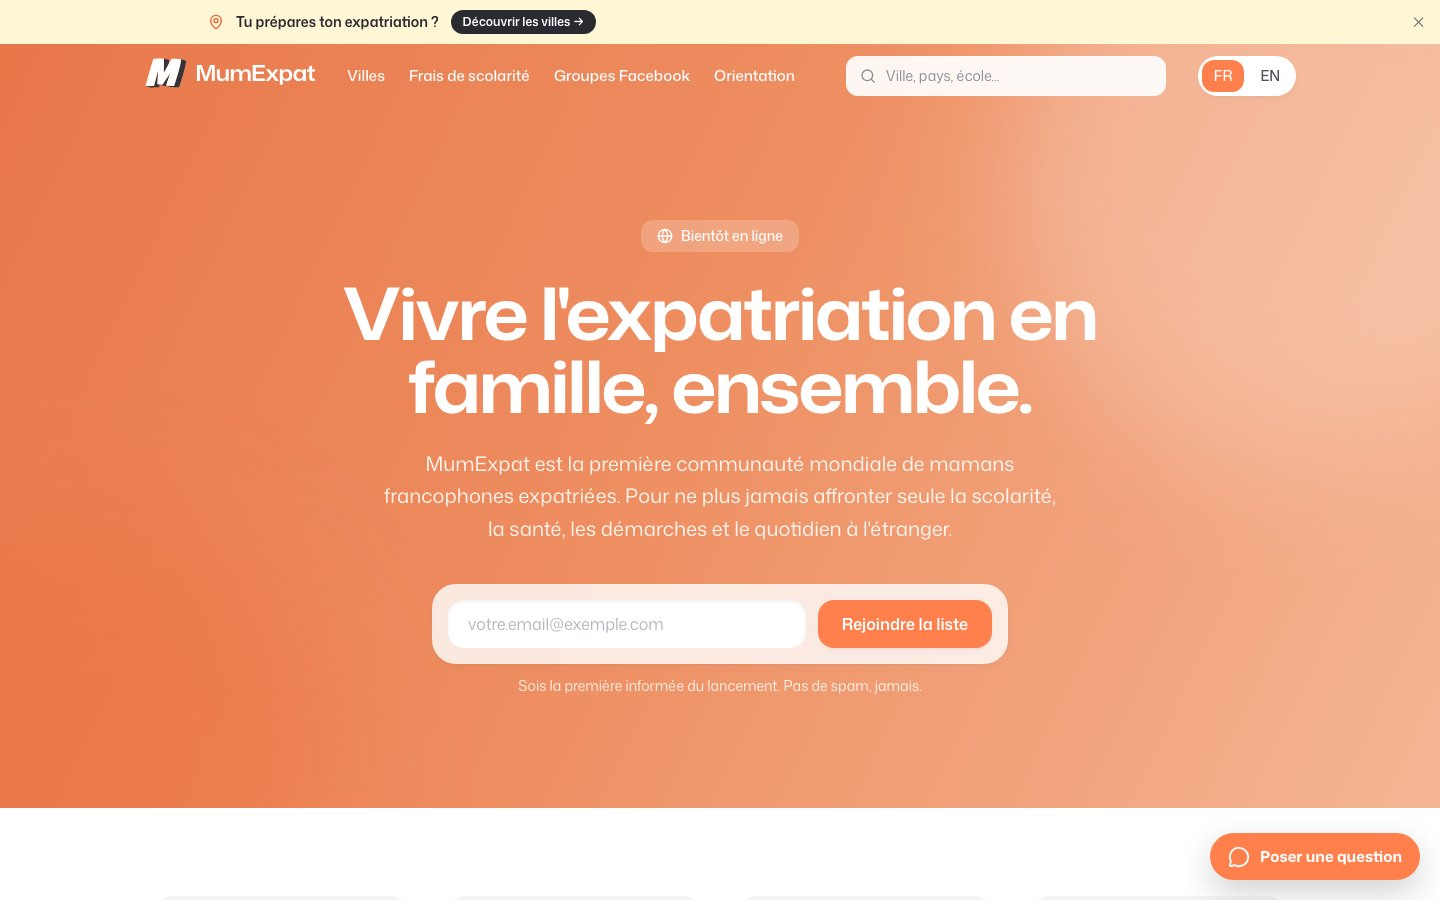
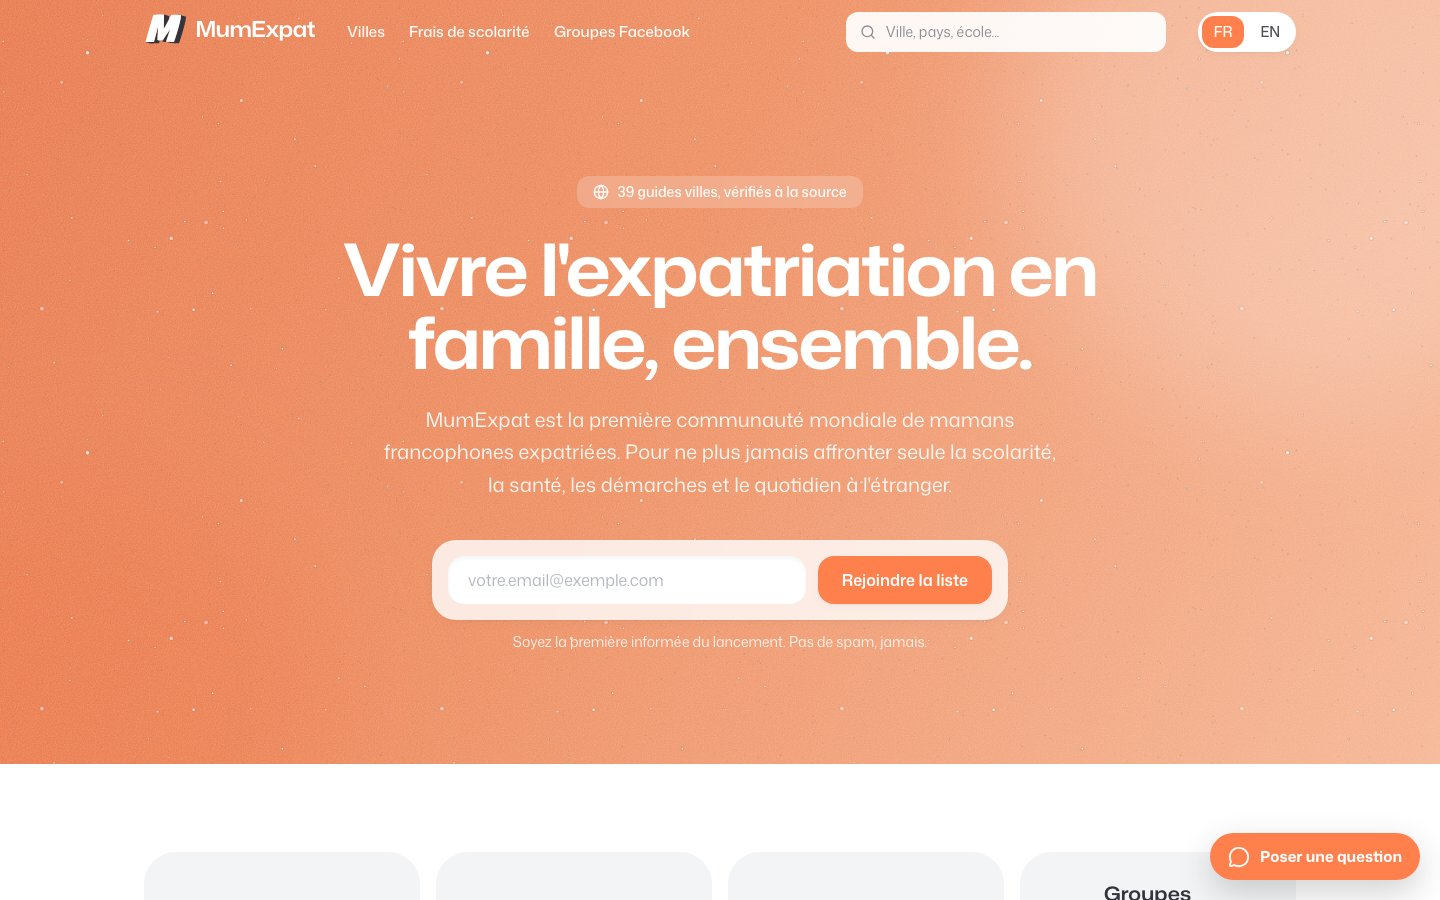
fix: story plafonnée à l'écran visible sur iPhone, capture MumExpat à jour
Claude-Session: https://claude.ai/code/session_018sWezq4TvC2hZctAijJpzf

diff --git a/components/projet/ProjetsStories.tsx b/components/projet/ProjetsStories.tsx
@@ -394,7 +394,7 @@ export function ProjetsStories({
             if (e.pointerType === "mouse") setSurvol(false);
           }}
           className={cn(
-            "relative z-10 flex aspect-[9/16] w-full max-w-[420px] touch-pan-y select-none flex-col overflow-hidden border-2 border-[color:var(--color-border)] bg-[color:var(--color-bg)] shadow-[var(--shadow-hard)] [-webkit-touch-callout:none] lg:h-full lg:w-auto lg:max-w-none",
+            "relative z-10 flex aspect-[9/16] max-h-[calc(100dvh-5.5rem)] w-full max-w-[420px] touch-pan-y select-none flex-col overflow-hidden border-2 border-[color:var(--color-border)] bg-[color:var(--color-bg)] shadow-[var(--shadow-hard)] [-webkit-touch-callout:none] lg:h-full lg:max-h-none lg:w-auto lg:max-w-none",
             glisse === 0 &&
               (sens === 1
                 ? "animate-[story-droite_320ms_cubic-bezier(0.2,0.8,0.2,1)]"
